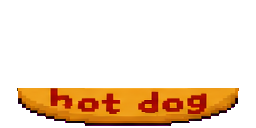
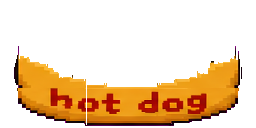
fix: fully mask pet behind hotdog bed

Changed region(s): [[0.0312, 0.375, 0.9688, 0.9688], [0.6562, 0.9688, 0.6875, 1.0]]

diff --git a/js/main.js b/js/main.js
@@ -53,9 +53,9 @@ document.addEventListener("DOMContentLoaded", () => {
     if (document.querySelector('link[data-desktop-pet-style]')) return;
     const petStyles = document.createElement("link");
     petStyles.rel = "stylesheet";
-    petStyles.href = new URL("css/desktop-pet.css?v=1.8.0", siteRoot).href;
+    petStyles.href = new URL("css/desktop-pet.css?v=1.8.1", siteRoot).href;
     petStyles.dataset.desktopPetStyle = "true";
-    const petModuleUrl = new URL("js/desktop-pet.js?v=1.8.0", siteRoot).href;
+    const petModuleUrl = new URL("js/desktop-pet.js?v=1.8.1", siteRoot).href;
     // 样式就绪后再加载组件，避免慢速网络下未应用 CSS 的桌宠短暂闪现。
     petStyles.addEventListener("load", () => {
       void import(petModuleUrl).catch((error) => console.error(`桌宠模块加载失败：${petModuleUrl}`, error));

diff --git a/js/desktop-pet.js b/js/desktop-pet.js
@@ -148,7 +148,7 @@ var SpriteTransitionController = class {
 };
 
 // ../src/components/DesktopPet/petAssets.ts
-var petAssetVersion = "1.8.0";
+var petAssetVersion = "1.8.1";
 var petAsset = (fileName) => new URL(`../images/pet/${fileName}?v=${petAssetVersion}`, import.meta.url).href;
 var petSprite = (fileName, fps, loop = true, offsetY = 0) => ({
   src: petAsset(fileName),

diff --git a/src/components/DesktopPet/petAssets.ts b/src/components/DesktopPet/petAssets.ts
@@ -1,6 +1,6 @@
 import type { PetState, SpriteDefinition } from "./types";
 
-const petAssetVersion = "1.8.0";
+const petAssetVersion = "1.8.1";
 const petAsset = (fileName: string): string =>
   new URL(`../images/pet/${fileName}?v=${petAssetVersion}`, import.meta.url).href;
 
